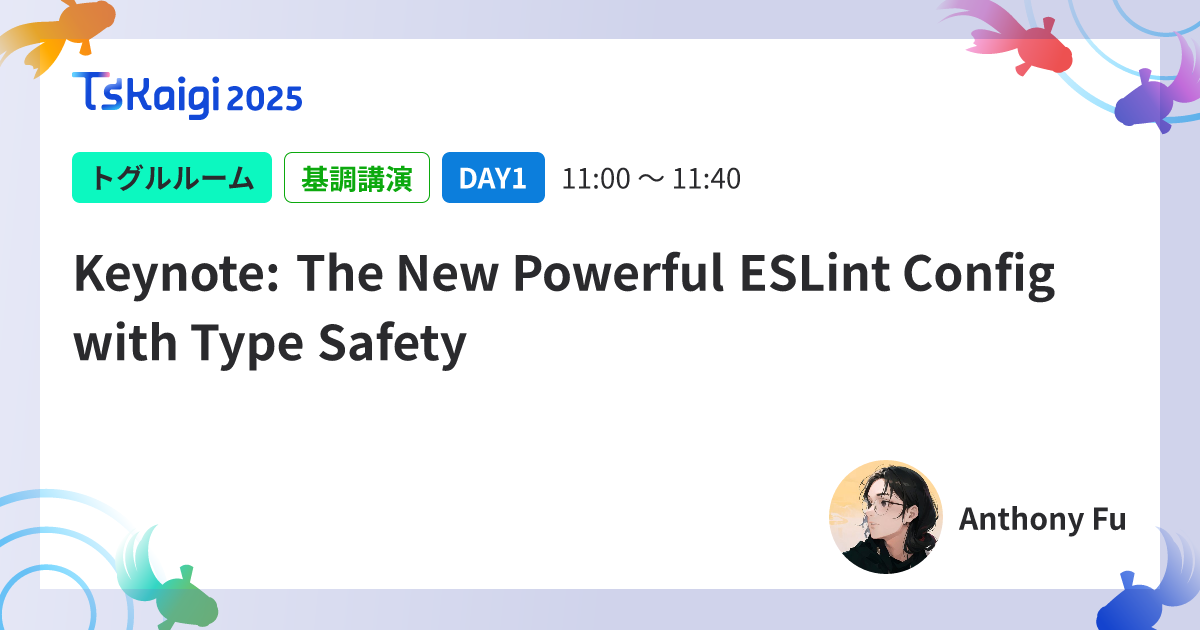
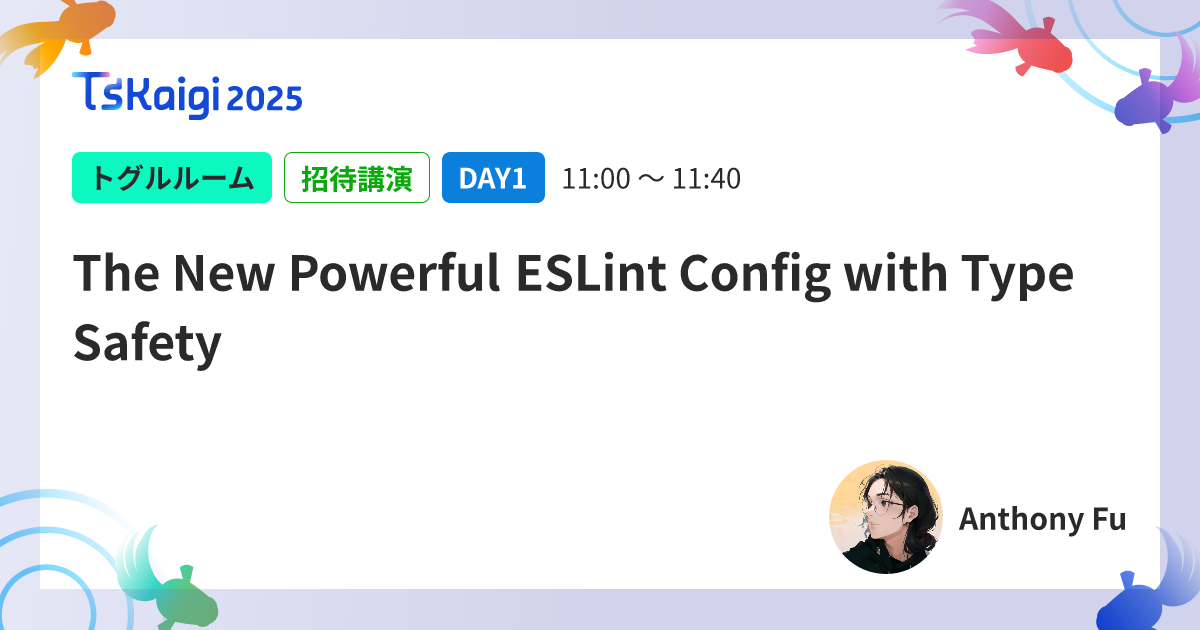
feat: トーク情報の追加と修正

Changed region(s): [[0.0617, 0.3921, 0.8942, 0.4825], [0.0617, 0.5127, 0.4008, 0.6032], [0.2467, 0.2413, 0.3083, 0.3016]]

diff --git a/src/constants/talkList.ts b/src/constants/talkList.ts
@@ -25,8 +25,12 @@ export const TALK_TYPE = {
     name: "セッション",
     color: "#0C7EDC",
   },
-  KEYNOTE: {
-    name: "基調講演",
+  INVITATION: {
+    name: "招待講演",
+    color: "#0CA90E",
+  },
+  ORGANIZER: {
+    name: "主催者講演",
     color: "#0CA90E",
   },
   LT: {
@@ -1574,8 +1578,8 @@ TypeScript を学ぶ上で、「型」はしばしば静的なラベルのよう
     id: "70",
     eventDate: "DAY1",
     track: "TRACK1",
-    talkType: "KEYNOTE",
-    title: "Keynote: The New Powerful ESLint Config with Type Safety",
+    talkType: "INVITATION",
+    title: "The New Powerful ESLint Config with Type Safety",
     overview:
       "Introduction to the new flat config and the new possibilities it enables, the new utilities and ecosystem around it, and how you can do it in a type-safe way.",
     time: "11:00 〜 11:40",
@@ -1589,6 +1593,28 @@ TypeScript を学ぶ上で、「型」はしばしば静的なラベルのよう
       additionalLink: "https://antfu.me/",
       affiliation: "NuxtLabs",
       position: "Design Engineer",
+    },
+  },
+  {
+    id: "71",
+    eventDate: "DAY2",
+    track: "TRACK1",
+    talkType: "ORGANIZER",
+    title: "TypeScriptネイティブ移植観察レポート TSKaigi 2025",
+    overview:
+      "TypeScriptのネイティブ実装への移植は、TSKaigi 2025のプロポーザル締切直後の3/11に発表されました。発表から2ヶ月が経ち、発表直後の大盛り上がりは落ち着いて、粛々と開発が進んでいます。ネイティブ実装への移植によって何がどう変わるのかをおさらいし、GitHub上を中心として様々に明かされた経緯や展望をまとめて紹介します。",
+    time: "10:00 〜 10:40",
+    speaker: {
+      name: "berlysia",
+      username: "berlysia",
+      profileImagePath: "berlysia.jpg",
+      bio: "フロントエンドに強いWebエンジニア。TypeScriptやLinterまで広く関心。TSKaigi 2025ではトーク周りを統括。株式会社ドワンゴではWebフロントエンドをリード。今回は縦書きCSSの話はしません。",
+      xId: "berlysia",
+      githubId: "berlysia",
+      additionalLink: "https://berlysia.net/",
+      affiliation:
+        "一般社団法人TSKaigi Association、株式会社ドワンゴ 教育事業本部",
+      position: "Webフロントエンドエンジニア",
     },
   },
 ];
